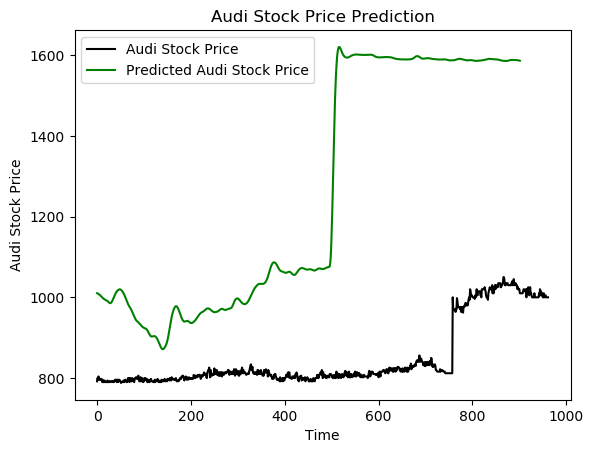
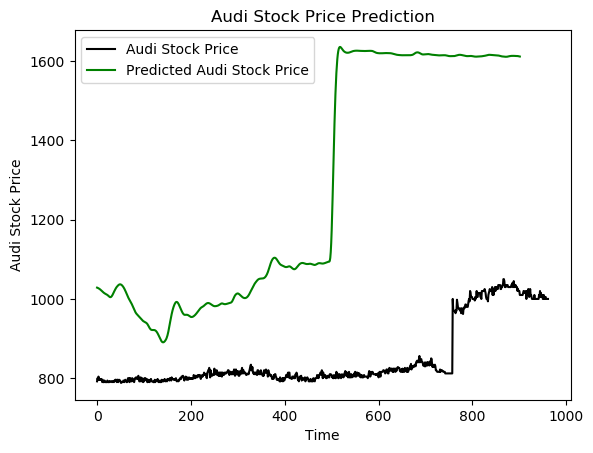
general update of repository

diff --git a/stockprice_prediction/daimler/without_semantics/daimler_prediction_without_semantics.py b/stockprice_prediction/daimler/without_semantics/daimler_prediction_without_semantics.py
@@ -13,6 +13,13 @@ from numpy import newaxis
 import glob
 import os
 from datetime import datetime
+from numpy.random import seed
+import tensorflow as tf
+
+model_seed = 100
+#ensure same output results
+seed(101)
+tf.random.set_seed(model_seed)
 
 # file where csv files lies
 path = r'C:\Users\victo\Master_Thesis\merging_data\daimler\merged_files'

diff --git a/stockprice_prediction/audi/without_semantics/audi_prediction_without_semantics.py b/stockprice_prediction/audi/without_semantics/audi_prediction_without_semantics.py
@@ -13,6 +13,13 @@ from numpy import newaxis
 import glob
 import os
 from datetime import datetime
+from numpy.random import seed
+import tensorflow as tf
+
+model_seed = 100
+#ensure same output results
+seed(101)
+tf.random.set_seed(model_seed)
 
 # file where csv files lies
 path = r'C:\Users\victo\Master_Thesis\merging_data\audi\merged_files'

diff --git a/stockprice_prediction/bmw/without_semantics/bmw_prediction_without_semantics.py b/stockprice_prediction/bmw/without_semantics/bmw_prediction_without_semantics.py
@@ -13,6 +13,13 @@ from numpy import newaxis
 import glob
 import os
 from datetime import datetime
+from numpy.random import seed
+import tensorflow as tf
+
+model_seed = 100
+#ensure same output results
+seed(101)
+tf.random.set_seed(model_seed)
 
 # file where csv files lies
 path = r'C:\Users\victo\Master_Thesis\merging_data\bmw\merged_files'

diff --git a/stockprice_prediction/audi/vader/content/audi_prediction_with_semantics.py b/stockprice_prediction/audi/vader/content/audi_prediction_with_semantics.py
@@ -14,6 +14,7 @@ from numpy import newaxis
 import glob
 import os
 from datetime import datetime
+from numpy.random import seed
 
 # file where csv files lies
 path = r'C:\Users\victo\Master_Thesis\merging_data\audi\merged_files'
